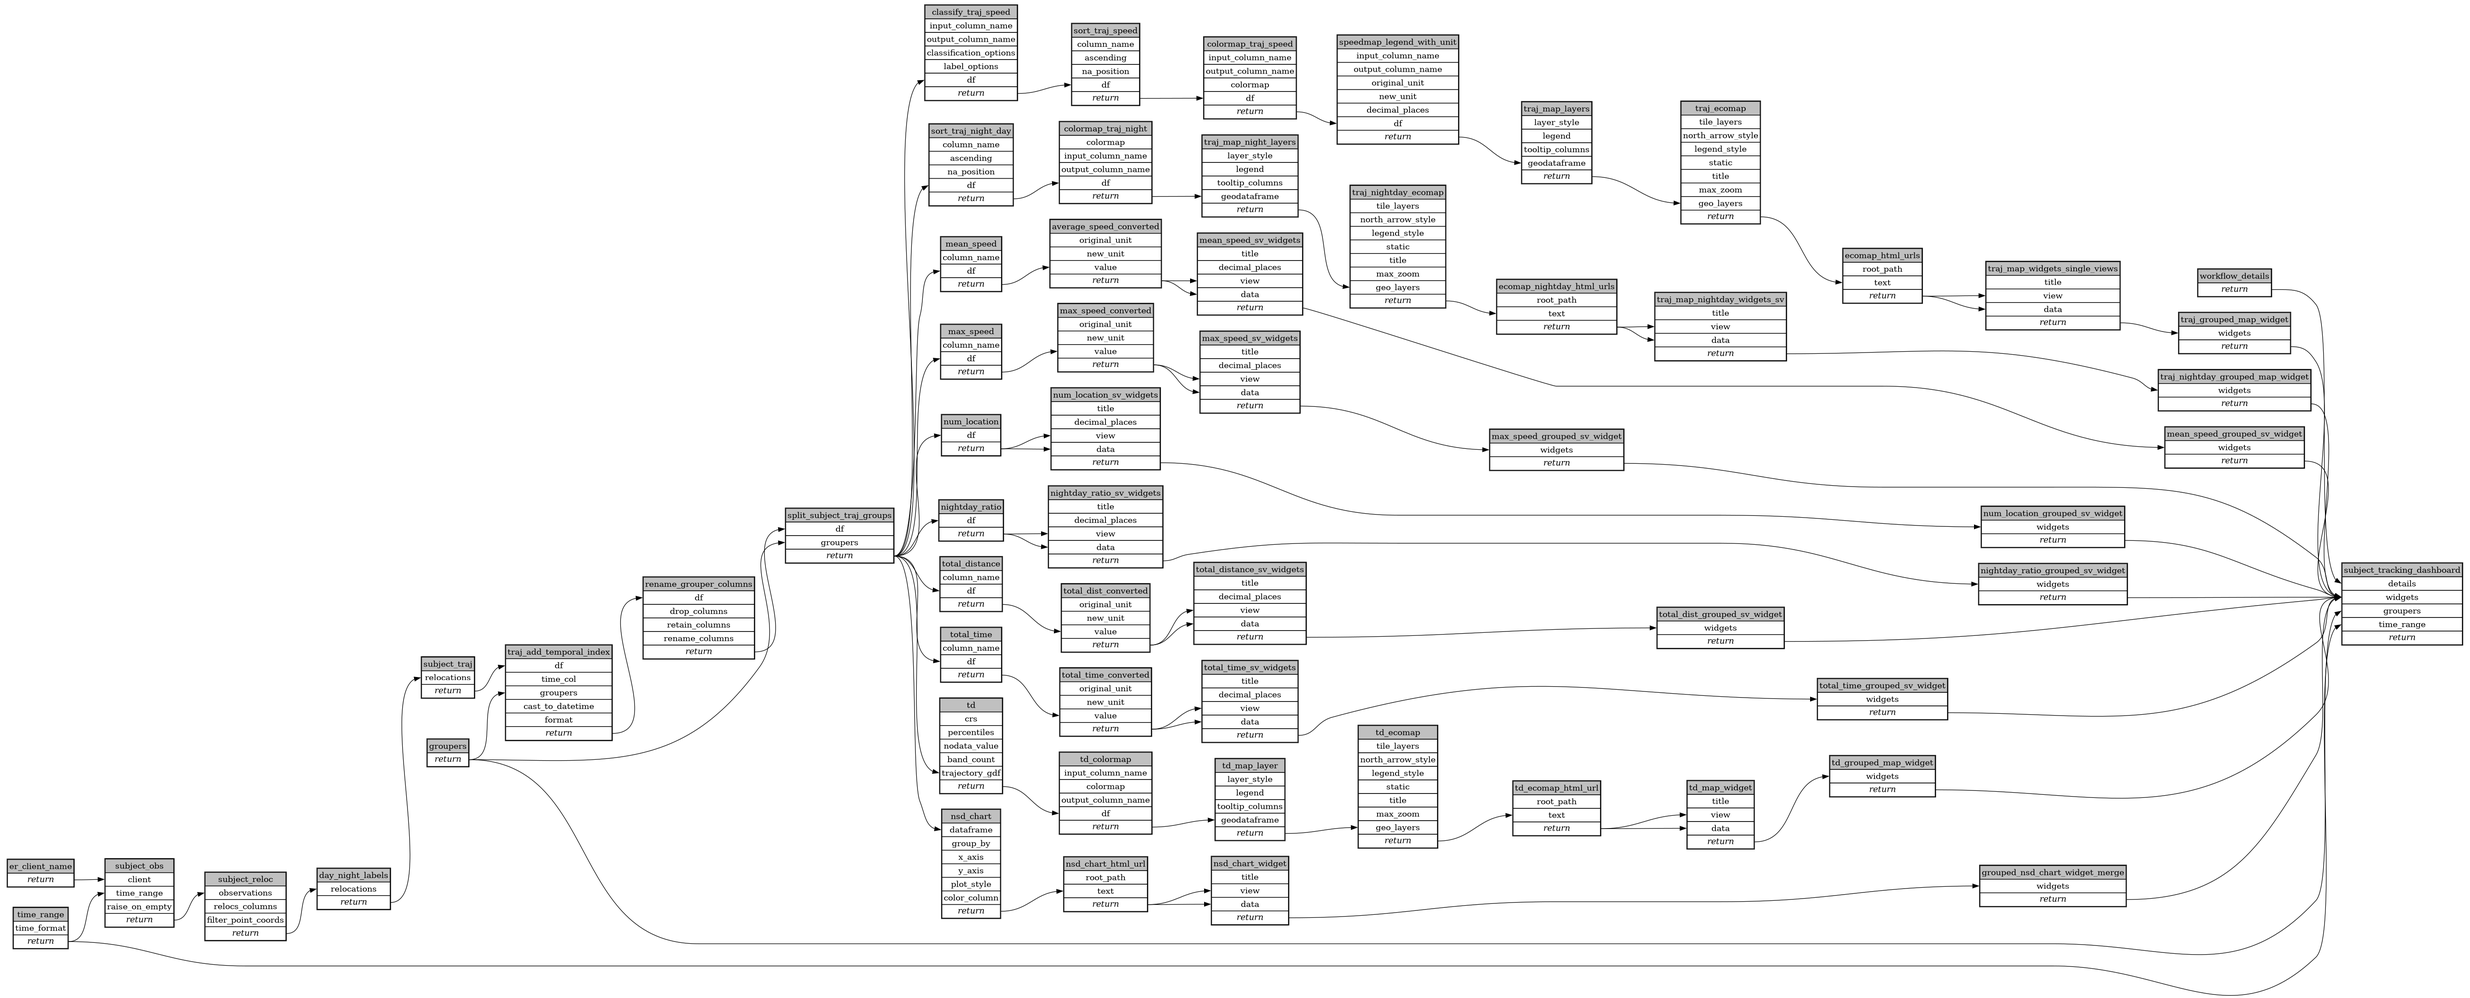
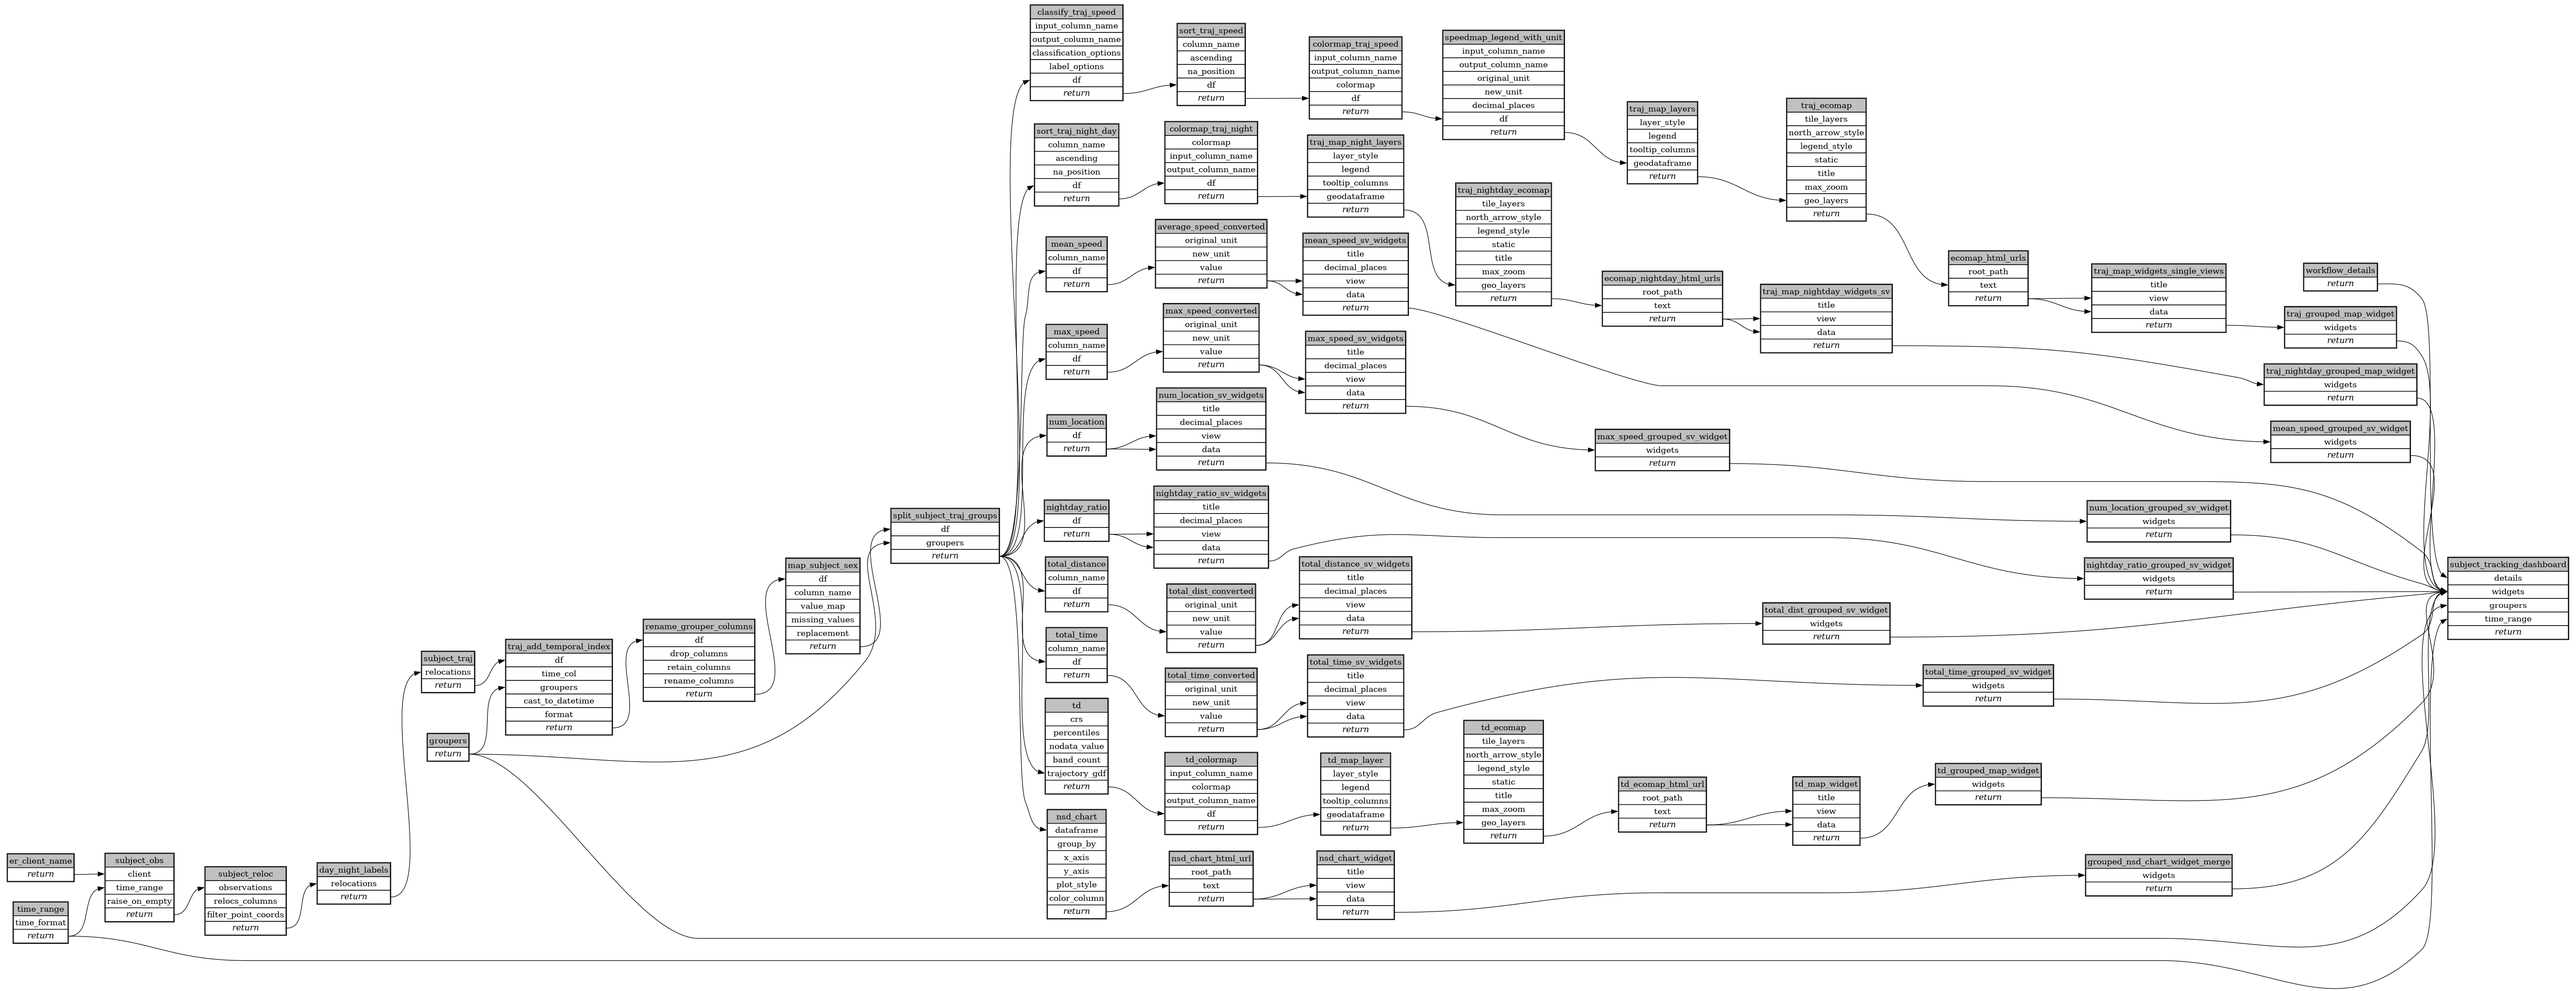
auto: recompile ecoscope-workflows-subject-tracking-workflow

diff --git a/ecoscope-workflows-subject-tracking-workflow/ecoscope_workflows_subject_tracking_workflow/dags/run_async.py b/ecoscope-workflows-subject-tracking-workflow/ecoscope_workflows_subject_tracking_workflow/dags/run_async.py
@@ -16,6 +16,7 @@ from ecoscope_workflows_ext_ecoscope.tasks.preprocessing import (
 )
 from ecoscope_workflows_core.tasks.transformation import add_temporal_index
 from ecoscope_workflows_core.tasks.transformation import map_columns
+from ecoscope_workflows_core.tasks.transformation import map_values
 from ecoscope_workflows_core.tasks.groupby import split_groups
 from ecoscope_workflows_ext_ecoscope.tasks.transformation import apply_classification
 from ecoscope_workflows_core.tasks.transformation import sort_values
@@ -56,7 +57,8 @@ def main(params: Params):
         "subject_traj": ["day_night_labels"],
         "traj_add_temporal_index": ["subject_traj", "groupers"],
         "rename_grouper_columns": ["traj_add_temporal_index"],
-        "split_subject_traj_groups": ["rename_grouper_columns", "groupers"],
+        "map_subject_sex": ["rename_grouper_columns"],
+        "split_subject_traj_groups": ["map_subject_sex", "groupers"],
         "classify_traj_speed": ["split_subject_traj_groups"],
         "sort_traj_speed": ["classify_traj_speed"],
         "colormap_traj_speed": ["sort_traj_speed"],
@@ -180,6 +182,7 @@ def main(params: Params):
                     "geometry",
                     "extra__subject__name",
                     "extra__subject__subject_subtype",
+                    "extra__subject__sex",
                 ],
                 "filter_point_coords": [
                     {"x": 180.0, "y": 90.0},
@@ -235,9 +238,24 @@ def main(params: Params):
                 "rename_columns": {
                     "extra__name": "subject_name",
                     "extra__subject_subtype": "subject_subtype",
+                    "extra__sex": "subject_sex",
                 },
             }
             | (params_dict.get("rename_grouper_columns") or {}),
+            method="call",
+        ),
+        "map_subject_sex": Node(
+            async_task=map_values.validate()
+            .handle_errors(task_instance_id="map_subject_sex")
+            .set_executor("lithops"),
+            partial={
+                "df": DependsOn("rename_grouper_columns"),
+                "column_name": "subject_sex",
+                "value_map": {"male": "male", "female": "female"},
+                "missing_values": "replace",
+                "replacement": "unknown",
+            }
+            | (params_dict.get("map_subject_sex") or {}),
             method="call",
         ),
         "split_subject_traj_groups": Node(
@@ -245,7 +263,7 @@ def main(params: Params):
             .handle_errors(task_instance_id="split_subject_traj_groups")
             .set_executor("lithops"),
             partial={
-                "df": DependsOn("rename_grouper_columns"),
+                "df": DependsOn("map_subject_sex"),
                 "groupers": DependsOn("groupers"),
             }
             | (params_dict.get("split_subject_traj_groups") or {}),

diff --git a/ecoscope-workflows-subject-tracking-workflow/ecoscope_workflows_subject_tracking_workflow/dags/run_async_mock_io.py b/ecoscope-workflows-subject-tracking-workflow/ecoscope_workflows_subject_tracking_workflow/dags/run_async_mock_io.py
@@ -31,6 +31,7 @@ from ecoscope_workflows_ext_ecoscope.tasks.preprocessing import (
 )
 from ecoscope_workflows_core.tasks.transformation import add_temporal_index
 from ecoscope_workflows_core.tasks.transformation import map_columns
+from ecoscope_workflows_core.tasks.transformation import map_values
 from ecoscope_workflows_core.tasks.groupby import split_groups
 from ecoscope_workflows_ext_ecoscope.tasks.transformation import apply_classification
 from ecoscope_workflows_core.tasks.transformation import sort_values
@@ -73,7 +74,8 @@ def main(params: Params):
         "subject_traj": ["day_night_labels"],
         "traj_add_temporal_index": ["subject_traj", "groupers"],
         "rename_grouper_columns": ["traj_add_temporal_index"],
-        "split_subject_traj_groups": ["rename_grouper_columns", "groupers"],
+        "map_subject_sex": ["rename_grouper_columns"],
+        "split_subject_traj_groups": ["map_subject_sex", "groupers"],
         "classify_traj_speed": ["split_subject_traj_groups"],
         "sort_traj_speed": ["classify_traj_speed"],
         "colormap_traj_speed": ["sort_traj_speed"],
@@ -197,6 +199,7 @@ def main(params: Params):
                     "geometry",
                     "extra__subject__name",
                     "extra__subject__subject_subtype",
+                    "extra__subject__sex",
                 ],
                 "filter_point_coords": [
                     {"x": 180.0, "y": 90.0},
@@ -252,9 +255,24 @@ def main(params: Params):
                 "rename_columns": {
                     "extra__name": "subject_name",
                     "extra__subject_subtype": "subject_subtype",
+                    "extra__sex": "subject_sex",
                 },
             }
             | (params_dict.get("rename_grouper_columns") or {}),
+            method="call",
+        ),
+        "map_subject_sex": Node(
+            async_task=map_values.validate()
+            .handle_errors(task_instance_id="map_subject_sex")
+            .set_executor("lithops"),
+            partial={
+                "df": DependsOn("rename_grouper_columns"),
+                "column_name": "subject_sex",
+                "value_map": {"male": "male", "female": "female"},
+                "missing_values": "replace",
+                "replacement": "unknown",
+            }
+            | (params_dict.get("map_subject_sex") or {}),
             method="call",
         ),
         "split_subject_traj_groups": Node(
@@ -262,7 +280,7 @@ def main(params: Params):
             .handle_errors(task_instance_id="split_subject_traj_groups")
             .set_executor("lithops"),
             partial={
-                "df": DependsOn("rename_grouper_columns"),
+                "df": DependsOn("map_subject_sex"),
                 "groupers": DependsOn("groupers"),
             }
             | (params_dict.get("split_subject_traj_groups") or {}),

diff --git a/ecoscope-workflows-subject-tracking-workflow/ecoscope_workflows_subject_tracking_workflow/dags/run_sequential_mock_io.py b/ecoscope-workflows-subject-tracking-workflow/ecoscope_workflows_subject_tracking_workflow/dags/run_sequential_mock_io.py
@@ -29,6 +29,7 @@ from ecoscope_workflows_ext_ecoscope.tasks.preprocessing import (
 )
 from ecoscope_workflows_core.tasks.transformation import add_temporal_index
 from ecoscope_workflows_core.tasks.transformation import map_columns
+from ecoscope_workflows_core.tasks.transformation import map_values
 from ecoscope_workflows_core.tasks.groupby import split_groups
 from ecoscope_workflows_ext_ecoscope.tasks.transformation import apply_classification
 from ecoscope_workflows_core.tasks.transformation import sort_values
@@ -114,6 +115,7 @@ def main(params: Params):
                 "geometry",
                 "extra__subject__name",
                 "extra__subject__subject_subtype",
+                "extra__subject__sex",
             ],
             filter_point_coords=[
                 {"x": 180.0, "y": 90.0},
@@ -167,8 +169,23 @@ def main(params: Params):
             rename_columns={
                 "extra__name": "subject_name",
                 "extra__subject_subtype": "subject_subtype",
+                "extra__sex": "subject_sex",
             },
             **(params_dict.get("rename_grouper_columns") or {}),
+        )
+        .call()
+    )
+
+    map_subject_sex = (
+        map_values.validate()
+        .handle_errors(task_instance_id="map_subject_sex")
+        .partial(
+            df=rename_grouper_columns,
+            column_name="subject_sex",
+            value_map={"male": "male", "female": "female"},
+            missing_values="replace",
+            replacement="unknown",
+            **(params_dict.get("map_subject_sex") or {}),
         )
         .call()
     )
@@ -177,7 +194,7 @@ def main(params: Params):
         split_groups.validate()
         .handle_errors(task_instance_id="split_subject_traj_groups")
         .partial(
-            df=rename_grouper_columns,
+            df=map_subject_sex,
             groupers=groupers,
             **(params_dict.get("split_subject_traj_groups") or {}),
         )

diff --git a/ecoscope-workflows-subject-tracking-workflow/ecoscope_workflows_subject_tracking_workflow/dags/run_sequential.py b/ecoscope-workflows-subject-tracking-workflow/ecoscope_workflows_subject_tracking_workflow/dags/run_sequential.py
@@ -14,6 +14,7 @@ from ecoscope_workflows_ext_ecoscope.tasks.preprocessing import (
 )
 from ecoscope_workflows_core.tasks.transformation import add_temporal_index
 from ecoscope_workflows_core.tasks.transformation import map_columns
+from ecoscope_workflows_core.tasks.transformation import map_values
 from ecoscope_workflows_core.tasks.groupby import split_groups
 from ecoscope_workflows_ext_ecoscope.tasks.transformation import apply_classification
 from ecoscope_workflows_core.tasks.transformation import sort_values
@@ -97,6 +98,7 @@ def main(params: Params):
                 "geometry",
                 "extra__subject__name",
                 "extra__subject__subject_subtype",
+                "extra__subject__sex",
             ],
             filter_point_coords=[
                 {"x": 180.0, "y": 90.0},
@@ -150,8 +152,23 @@ def main(params: Params):
             rename_columns={
                 "extra__name": "subject_name",
                 "extra__subject_subtype": "subject_subtype",
+                "extra__sex": "subject_sex",
             },
             **(params_dict.get("rename_grouper_columns") or {}),
+        )
+        .call()
+    )
+
+    map_subject_sex = (
+        map_values.validate()
+        .handle_errors(task_instance_id="map_subject_sex")
+        .partial(
+            df=rename_grouper_columns,
+            column_name="subject_sex",
+            value_map={"male": "male", "female": "female"},
+            missing_values="replace",
+            replacement="unknown",
+            **(params_dict.get("map_subject_sex") or {}),
         )
         .call()
     )
@@ -160,7 +177,7 @@ def main(params: Params):
         split_groups.validate()
         .handle_errors(task_instance_id="split_subject_traj_groups")
         .partial(
-            df=rename_grouper_columns,
+            df=map_subject_sex,
             groupers=groupers,
             **(params_dict.get("split_subject_traj_groups") or {}),
         )

diff --git a/ecoscope-workflows-subject-tracking-workflow/ecoscope_workflows_subject_tracking_workflow/dags/jupytext.py b/ecoscope-workflows-subject-tracking-workflow/ecoscope_workflows_subject_tracking_workflow/dags/jupytext.py
@@ -23,6 +23,7 @@ from ecoscope_workflows_ext_ecoscope.tasks.preprocessing import (
 )
 from ecoscope_workflows_core.tasks.transformation import add_temporal_index
 from ecoscope_workflows_core.tasks.transformation import map_columns
+from ecoscope_workflows_core.tasks.transformation import map_values
 from ecoscope_workflows_core.tasks.groupby import split_groups
 from ecoscope_workflows_ext_ecoscope.tasks.transformation import apply_classification
 from ecoscope_workflows_core.tasks.transformation import sort_values
@@ -183,6 +184,7 @@ subject_reloc = (
             "geometry",
             "extra__subject__name",
             "extra__subject__subject_subtype",
+            "extra__subject__sex",
         ],
         filter_point_coords=[
             {"x": 180.0, "y": 90.0},
@@ -282,8 +284,35 @@ rename_grouper_columns = (
         rename_columns={
             "extra__name": "subject_name",
             "extra__subject_subtype": "subject_subtype",
+            "extra__sex": "subject_sex",
         },
         **rename_grouper_columns_params,
+    )
+    .call()
+)
+
+
+# %% [markdown]
+# ## Map Subject Sex Values
+
+# %%
+# parameters
+
+map_subject_sex_params = dict()
+
+# %%
+# call the task
+
+
+map_subject_sex = (
+    map_values.handle_errors(task_instance_id="map_subject_sex")
+    .partial(
+        df=rename_grouper_columns,
+        column_name="subject_sex",
+        value_map={"male": "male", "female": "female"},
+        missing_values="replace",
+        replacement="unknown",
+        **map_subject_sex_params,
     )
     .call()
 )
@@ -303,9 +332,7 @@ split_subject_traj_groups_params = dict()
 
 split_subject_traj_groups = (
     split_groups.handle_errors(task_instance_id="split_subject_traj_groups")
-    .partial(
-        df=rename_grouper_columns, groupers=groupers, **split_subject_traj_groups_params
-    )
+    .partial(df=map_subject_sex, groupers=groupers, **split_subject_traj_groups_params)
     .call()
 )
 

diff --git a/ecoscope-workflows-subject-tracking-workflow/ecoscope_workflows_subject_tracking_workflow/app.py b/ecoscope-workflows-subject-tracking-workflow/ecoscope_workflows_subject_tracking_workflow/app.py
@@ -23,7 +23,7 @@ from .response import ResponseModel
 app = FastAPI(
     title="subject_tracking",
     debug=True,
-    version="fe13f56",
+    version="6307206",
 )
 app.add_middleware(
     CORSMiddleware,

diff --git a/ecoscope-workflows-subject-tracking-workflow/README.md b/ecoscope-workflows-subject-tracking-workflow/README.md
@@ -5,17 +5,17 @@
 
 ```yaml
 # fingerprint:
-artifacts_sha256_basic: baa7de4bd4e5addd6830f5b06acc639c90ba33df020cdc064862a26c713e400a
-artifacts_sha256_strict: 459ae10ca08a8fe02b47a2b500c61283d3a334b5a86777d7bed766405924f022
+artifacts_sha256_basic: 083d66347306fdc49b2323468bf60b7a46f9e8814b8b001afc3b949c4e939175
+artifacts_sha256_strict: 34cfe6f3cd6f09b848981ed0d2da3693061871b3553f8c0ef6734cd10ce5c60c
 installed_requirements:
 - channel: https://repo.prefix.dev/ecoscope-workflows/
   name: ecoscope-workflows-core
-  version: {version: ==0.0.57}
+  version: {version: ==0.0.58}
 - channel: https://repo.prefix.dev/ecoscope-workflows/
   name: ecoscope-workflows-ext-ecoscope
-  version: {version: ==0.0.57}
+  version: {version: ==0.0.58}
 params_sha256: 9b480391422782aa68a88fb1ee408e3317cbed9420203079d6f7de9835decf3c
-spec_sha256: fe13f562c273bd7eeaaf468bd3ae1a2a1da776d41ce41de8cdaec924ab7b16bd
+spec_sha256: 630720671a35db3a68b84e0d88cc23f0c2ffd40a9d93d262e5f45b7ff16ecbfa
 
 ```
 
